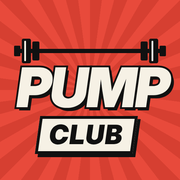
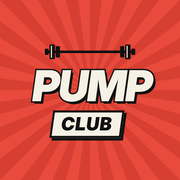
v0.5.2: kuvake latausnäytön tyyliin
Claude-Session: https://claude.ai/code/session_01KJuatntJjDayEfFVVQwn9f

diff --git a/sw.js b/sw.js
@@ -1,5 +1,5 @@
 // Sovelluksen offline-välimuisti. Päivitä VERSIO, kun tiedostot muuttuvat.
-const VERSIO = "treeni-0.5.1";
+const VERSIO = "treeni-0.5.2";
 const TIEDOSTOT = ["./", "index.html", "style.css", "app.js", "firebase-bundle.js", "manifest.webmanifest", "icon-180.png", "icon-192.png", "icon-512.png"];
 self.addEventListener("install", e => { e.waitUntil(caches.open(VERSIO).then(c => c.addAll(TIEDOSTOT))); self.skipWaiting(); });
 self.addEventListener("activate", e => { e.waitUntil(caches.keys().then(ks => Promise.all(ks.filter(k => k !== VERSIO).map(k => caches.delete(k))))); self.clients.claim(); });

diff --git a/index.html b/index.html
@@ -11,8 +11,8 @@
 <meta name="apple-mobile-web-app-title" content="Pump Club">
 <title>Pump Club</title>
 <link rel="manifest" href="manifest.webmanifest">
-<link rel="apple-touch-icon" href="icon-180.png">
-<link rel="icon" href="icon-192.png">
+<link rel="apple-touch-icon" href="icon-180.png?v=0.5.2">
+<link rel="icon" href="icon-192.png?v=0.5.2">
 <link rel="stylesheet" href="style.css">
 </head>
 <body>

diff --git a/app.js b/app.js
@@ -5,7 +5,7 @@ import {
   collection, doc, setDoc, deleteDoc, onSnapshot, writeBatch
 } from "./firebase-bundle.js";
 
-const VERSION = "0.5.1";
+const VERSION = "0.5.2";
 const firebaseConfig = {
   apiKey: "AIzaSyDTOryLjY0VBOa9DIuH02yVlxuy0JOBFKk",
   authDomain: "gym-tracker-e1050.firebaseapp.com",

diff --git a/docs/speksit/v0.5.0.md b/docs/speksit/v0.5.0.md
@@ -31,3 +31,7 @@
 - iPhonen kotinäyttösovelluksessa latausnäytön alle jäi kotipalkin kohdalle sivun taustavärinen palkki (kerma tai musta). Syy: iOS ei aina ulota fixed-elementtiä kotipalkin turva-alueen alle.
 - Korjaus 1: `<html class="splashing">` tekee sivun taustasta punaisen latausnäytön ajaksi. `hideSplash()` poistaa luokan.
 - Korjaus 2: latausnäyttö jatkuu turva-alueiden yli (`top`/`bottom` = `-env(safe-area-inset-*)`, `min-height: 100lvh`).
+
+## v0.5.2: kuvake latausnäytön tyyliin
+- Kuvake käyttää samaa sommitelmaa kuin latausnäyttö: säteet keskeltä, ohut tanko, PUMP ja CLUB-laatta samoissa mittasuhteissa, ympärillä enemmän punaista.
+- Kuvakelinkkeihin lisätty `?v=`, jotta iOS ja selain eivät käytä vanhaa välimuistissa olevaa kuvaa.
